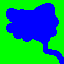
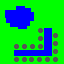
Added tile entities

diff --git a/src/com/orangejuice724/gameengine/GameEngine.java b/src/com/orangejuice724/gameengine/GameEngine.java
@@ -7,12 +7,17 @@ import java.awt.Graphics;
 import java.awt.image.BufferStrategy;
 import java.awt.image.BufferedImage;
 import java.awt.image.DataBufferInt;
+import java.util.ArrayList;
+import java.util.List;
 
 import javax.swing.JFrame;
 import javax.swing.JOptionPane;
 
+import com.orangejuice724.gameengine.entities.blocks.Chest;
 import com.orangejuice724.gameengine.entities.player.Player;
 import com.orangejuice724.gameengine.entities.player.PlayerMP;
+import com.orangejuice724.gameengine.graphics.Colours;
+import com.orangejuice724.gameengine.graphics.Font;
 import com.orangejuice724.gameengine.graphics.Screen;
 import com.orangejuice724.gameengine.graphics.SpriteSheet;
 import com.orangejuice724.gameengine.input.InputHandler;
@@ -33,6 +38,8 @@ public class GameEngine extends Canvas implements Runnable
 	public static GameEngine gameEngine;
 	
 	public JFrame frame;
+	
+	public List<Chest> chests = new ArrayList<Chest>();
 	
 	public boolean running = false;
 	public int tickCount = 0;
@@ -103,6 +110,8 @@ public class GameEngine extends Canvas implements Runnable
             socketServer.addConnection((PlayerMP) player, loginPacket);
         }
         loginPacket.writeData(socketClient);
+        chests.add(new Chest(level, 32, 32, player, input));
+        level.addEntity(chests.get(0));
 	}
 	
 	public synchronized void start()
@@ -184,6 +193,10 @@ public class GameEngine extends Canvas implements Runnable
 		tickCount++;
 		
 		level.tick();
+		for(Chest c : chests)
+		{
+			c.tick();
+		}
 	}
 	
 	public void render()
@@ -210,6 +223,11 @@ public class GameEngine extends Canvas implements Runnable
 				if (colourCode < 255)
 					pixels[x + y * WIDTH] = colours[colourCode];
 			}
+		}
+		
+		for(int c = 0; c < chests.size(); c++)
+		{
+			chests.get(c).render(screen);
 		}
 		
 		Graphics g = bs.getDrawGraphics();

diff --git a/src/com/orangejuice724/gameengine/entities/blocks/Chest.java b/src/com/orangejuice724/gameengine/entities/blocks/Chest.java
@@ -1,0 +1,61 @@
+package com.orangejuice724.gameengine.entities.blocks;
+
+import javax.swing.JOptionPane;
+
+import com.orangejuice724.gameengine.entities.Entity;
+import com.orangejuice724.gameengine.entities.player.Player;
+import com.orangejuice724.gameengine.graphics.Colours;
+import com.orangejuice724.gameengine.graphics.Font;
+import com.orangejuice724.gameengine.graphics.Screen;
+import com.orangejuice724.gameengine.input.InputHandler;
+import com.orangejuice724.gameengine.level.Level;
+
+public class Chest extends Entity
+{
+
+	private int scale = 1;
+	private int colour = Colours.get(-1, 431, 542, 550);
+	private Player player;
+	private InputHandler input;
+	private boolean canOpenChest = true;
+	
+	public Chest(Level level, int x, int y, Player player, InputHandler input)
+	{
+		super(level);
+		this.x = x;
+		this.y = y;
+		this.player = player;
+		this.input = input;
+	}
+
+	@Override
+	public void tick()
+	{ 
+		if ((player.x - x) + (player.y - y) < 5)
+		{
+			if(input.keyE.isPressed() && canOpenChest)
+				openChest();
+		}
+	}
+
+	@Override
+	public void render(Screen screen)
+	{
+		int modifier = 8 * scale;
+		int xOffset = x - modifier / 2;
+		int yOffset = y - modifier / 2 - 4;
+		
+		screen.render(xOffset, yOffset, (0 + 1) * 32, colour, 0, scale);
+		if ((player.x - x) + (player.y - y) < 10 && canOpenChest)
+		{
+			String message = "Press E to Open";
+			Font.render(message, screen, x - (32), yOffset - 10, Colours.get(-1, 555, 0, 0), scale);
+		}
+	}
+	
+	public void openChest()
+	{
+		JOptionPane.showConfirmDialog(null, "Lol this does nothing");
+		canOpenChest = false;
+	}
+}

diff --git a/src/com/orangejuice724/gameengine/entities/player/Player.java b/src/com/orangejuice724/gameengine/entities/player/Player.java
@@ -7,6 +7,7 @@ import com.orangejuice724.gameengine.graphics.Font;
 import com.orangejuice724.gameengine.graphics.Screen;
 import com.orangejuice724.gameengine.input.InputHandler;
 import com.orangejuice724.gameengine.level.Level;
+import com.orangejuice724.gameengine.level.tiles.TileEntity;
 import com.orangejuice724.gameengine.net.packets.Packet02Move;
 
 public class Player extends Mob
@@ -17,6 +18,8 @@ public class Player extends Mob
 	private int scale = 1;
 	protected boolean isSwimming = false;
 	private int tickCount;
+	
+	private boolean nearChest;
 	
 	private String username;
 	
@@ -186,5 +189,10 @@ public class Player extends Mob
 	public String getUsername()
 	{
 		return this.username;
+	}
+	
+	private void openChest(TileEntity tileEntity)
+	{
+		
 	}
 }

diff --git a/src/com/orangejuice724/gameengine/input/InputHandler.java b/src/com/orangejuice724/gameengine/input/InputHandler.java
@@ -39,6 +39,7 @@ public class InputHandler implements KeyListener
 	public Key down = new Key();
 	public Key left = new Key();
 	public Key right = new Key();
+	public Key keyE = new Key();
 	
 	public void keyPressed(KeyEvent e) 
 	{
@@ -61,6 +62,7 @@ public class InputHandler implements KeyListener
 		if(keyCode == KeyEvent.VK_S || keyCode == KeyEvent.VK_DOWN) down.toggle(isPressed);
 		if(keyCode == KeyEvent.VK_A || keyCode == KeyEvent.VK_LEFT) left.toggle(isPressed);
 		if(keyCode == KeyEvent.VK_D || keyCode == KeyEvent.VK_RIGHT) right.toggle(isPressed);
+		if(keyCode == KeyEvent.VK_E) keyE.toggle(isPressed);
 	}
 	
 }

diff --git a/src/com/orangejuice724/gameengine/level/tiles/Tile.java b/src/com/orangejuice724/gameengine/level/tiles/Tile.java
@@ -19,10 +19,15 @@ public abstract class Tile
 	{ 1, 5 },
 	{ 2, 5 },
 	{ 1, 5 } }, Colours.get(-1, 004, 115, -1), 0xff0000ff, 1000);
+	public static final Tile WOODPLANKS = new BaseTile(4, 3, 0, Colours.get(
+			320, 431, 542, -1), 0xfff0f0f0);
+	public static final Tile CHEST = new TileEntity(5, 0, 1, Colours.get(131,
+			431, 542, 550), 0xff123456);
 	
 	protected byte id;
 	protected boolean solid;
 	protected boolean emitter;
+	protected boolean entity;
 	private int levelColour;
 	
 	public Tile(int id, boolean isSolid, boolean isEmitter, int levelColour)

diff --git a/src/com/orangejuice724/gameengine/level/tiles/TileEntity.java b/src/com/orangejuice724/gameengine/level/tiles/TileEntity.java
@@ -1,0 +1,13 @@
+package com.orangejuice724.gameengine.level.tiles;
+
+public class TileEntity extends BaseTile
+{
+
+	public TileEntity(int id, int x, int y, int tileColour, int levelColour)
+	{
+		super(id, x, y, tileColour, levelColour);
+		this.solid = true;
+		this.entity = true;
+	}
+	
+}
